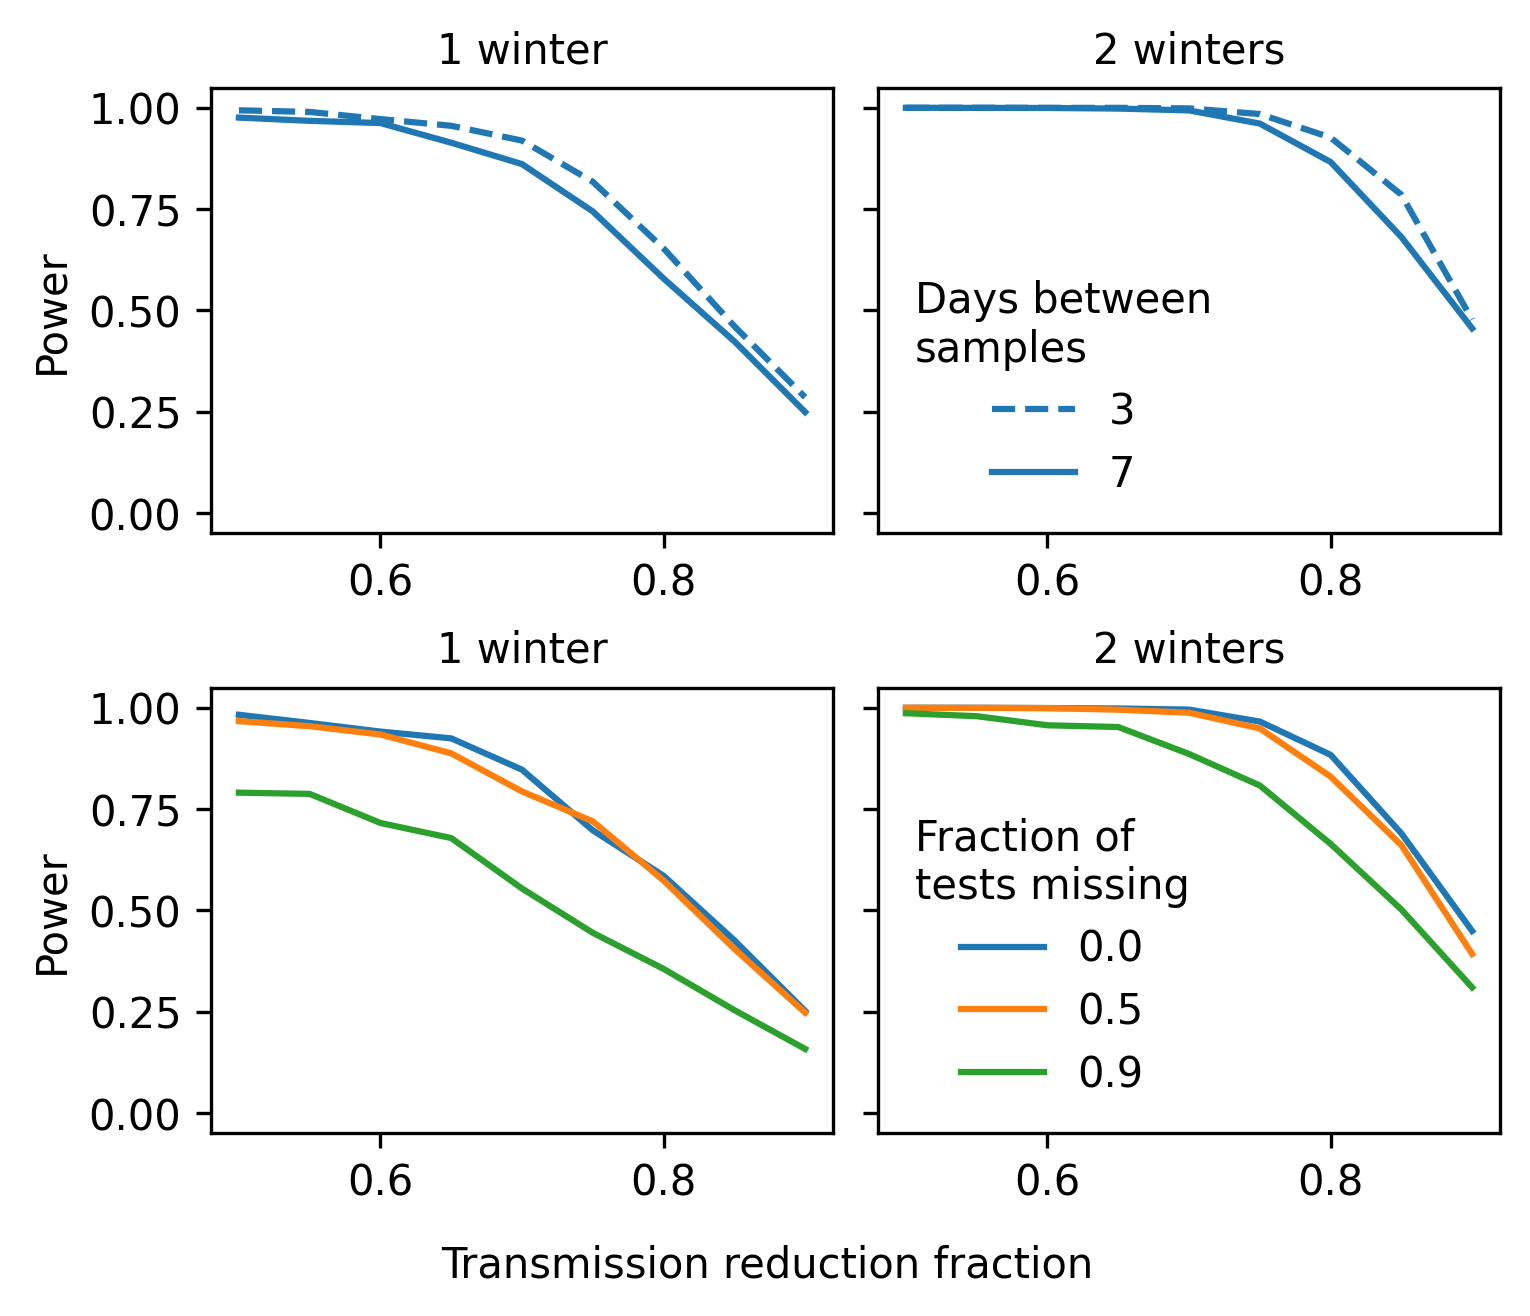
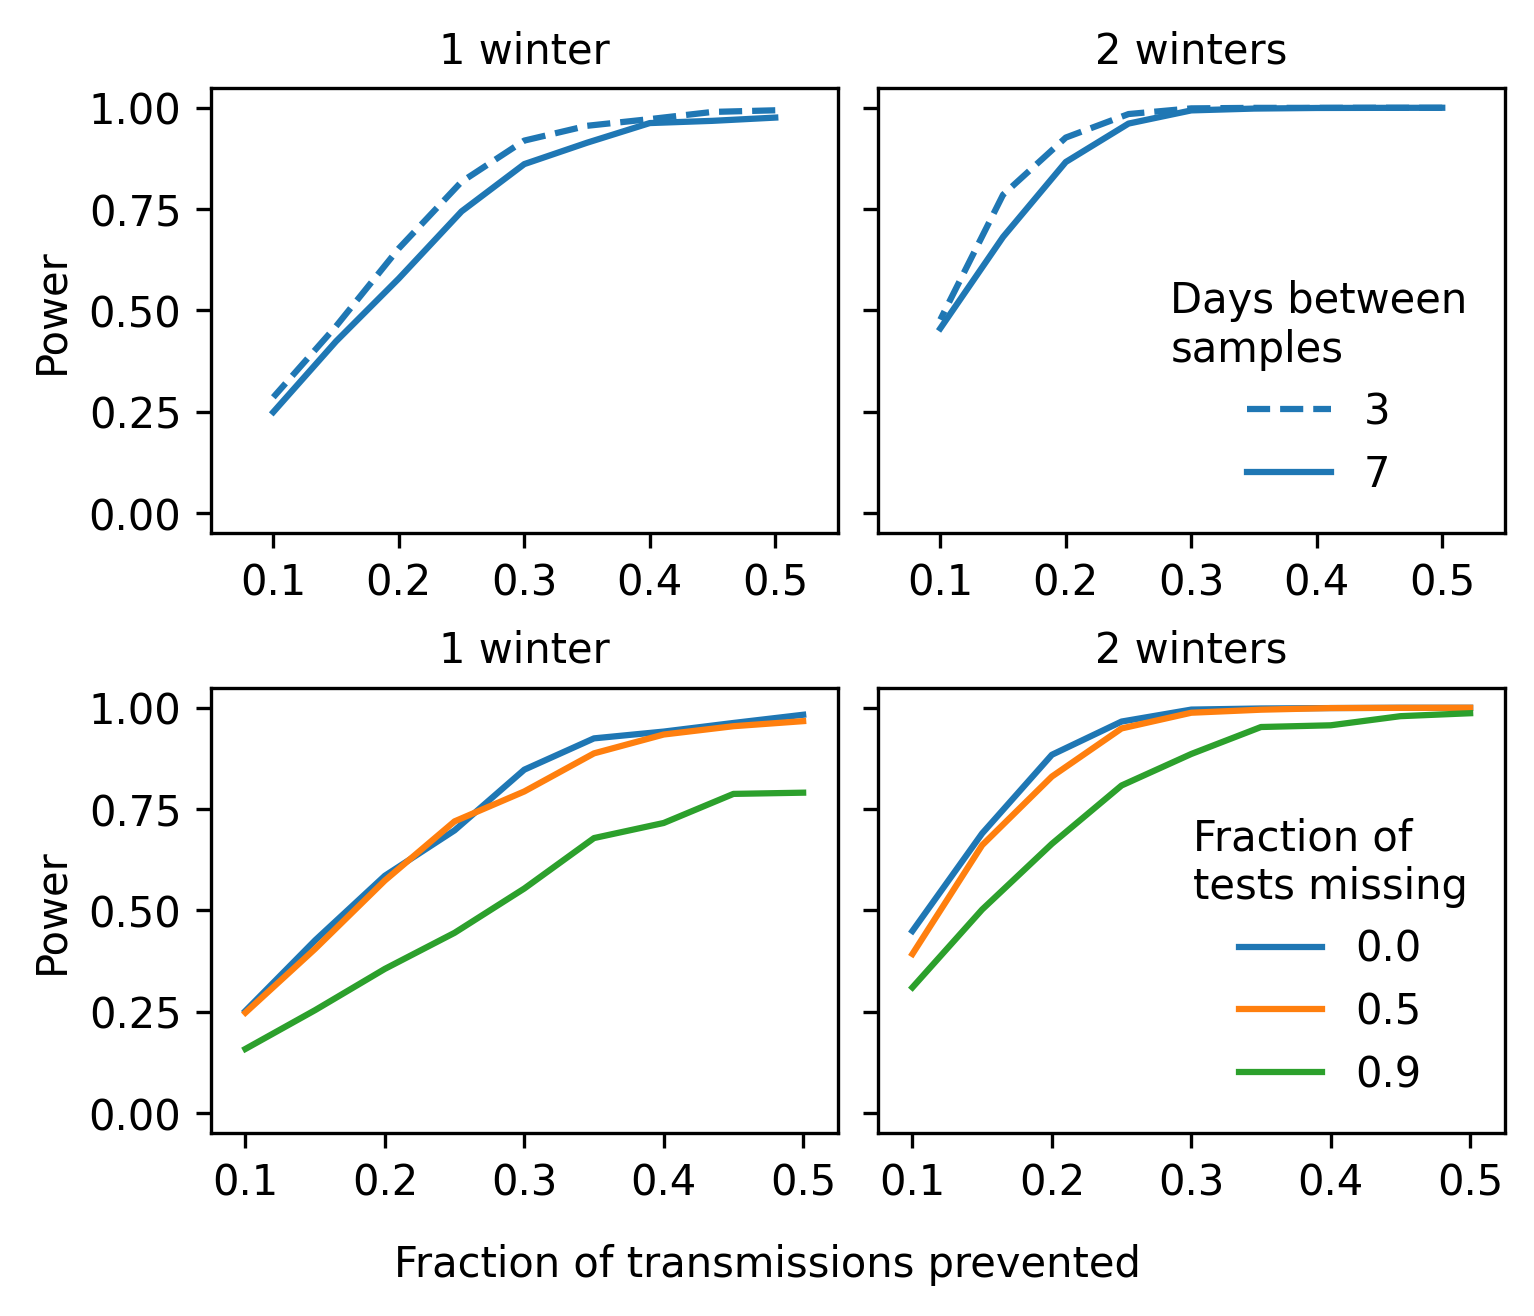
Clean up plots

diff --git a/plot_proposal_figs.py b/plot_proposal_figs.py
@@ -3,6 +3,9 @@ import matplotlib.pyplot as plt  # type: ignore
 from typing import Any
 
 virus_sim_template = "data/viruses/r0={r0}/reduction_factor={rf}.txt"
+xlim = [0.1 - 0.025, 0.525]
+ylim = [-0.05, 1.05]
+xticks = np.arange(0.1, 0.55, 0.1)
 
 
 def load_multivirus(
@@ -85,7 +88,9 @@ def plot_main_text_fig(
         if j == 0:
             ax.set_ylabel("Power")
         ax.set_title(f"{n_years} winter{s_if_plural(n_years)}", fontsize=10)
-        ax.set_ylim([-0.05, 1.05])
+        ax.set_ylim(ylim)
+        ax.set_xlim(xlim)
+        ax.set_xticks(xticks)
     fig.text(0.5, -0.05, "Fraction of transmissions prevented", ha="center")
     return fig
 
@@ -114,7 +119,7 @@ def plot_appendix_fig(
                 dash = "-"
             else:
                 dash = "--"
-            ax.plot(RF, powers, dash, color="C0", label=f"{t_samp}")
+            ax.plot([1 - rf for rf in RF], powers, dash, color="C0", label=f"{t_samp}")
         if j == 1:
             ax.legend(title="Days between\nsamples", frameon=False)
             ax.set_yticklabels([])
@@ -122,6 +127,8 @@ def plot_appendix_fig(
             ax.set_ylabel("Power")
         ax.set_title(f"{n_years} winter{s_if_plural(n_years)}", fontsize=10)
         ax.set_ylim([-0.05, 1.05])
+        ax.set_xticks([0.1, 0.2, 0.3, 0.4, 0.5])
+        ax.set_xlim([0.05, 0.55])
 
     for j, n_years in enumerate(N_YEARS):
         ax = axes[1, j]
@@ -137,15 +144,17 @@ def plot_appendix_fig(
                 )
                 for cases_control, cases_uv in data
             ]
-            ax.plot(RF, powers, "-", label=f"{frac_missing}")
+            ax.plot([1 - rf for rf in RF], powers, "-", label=f"{frac_missing}")
         if j == 1:
             ax.legend(title="Fraction of\ntests missing", frameon=False)
             ax.set_yticklabels([])
         if j == 0:
             ax.set_ylabel("Power")
         ax.set_title(f"{n_years} winter{s_if_plural(n_years)}", fontsize=10)
-        ax.set_ylim([-0.05, 1.05])
-    fig.text(0.5, -0.05, "Transmission reduction fraction", ha="center")
+        ax.set_ylim(ylim)
+        ax.set_xlim(xlim)
+        ax.set_xticks(xticks)
+    fig.text(0.5, -0.05, "Fraction of transmissions prevented", ha="center")
     return fig
 
 
